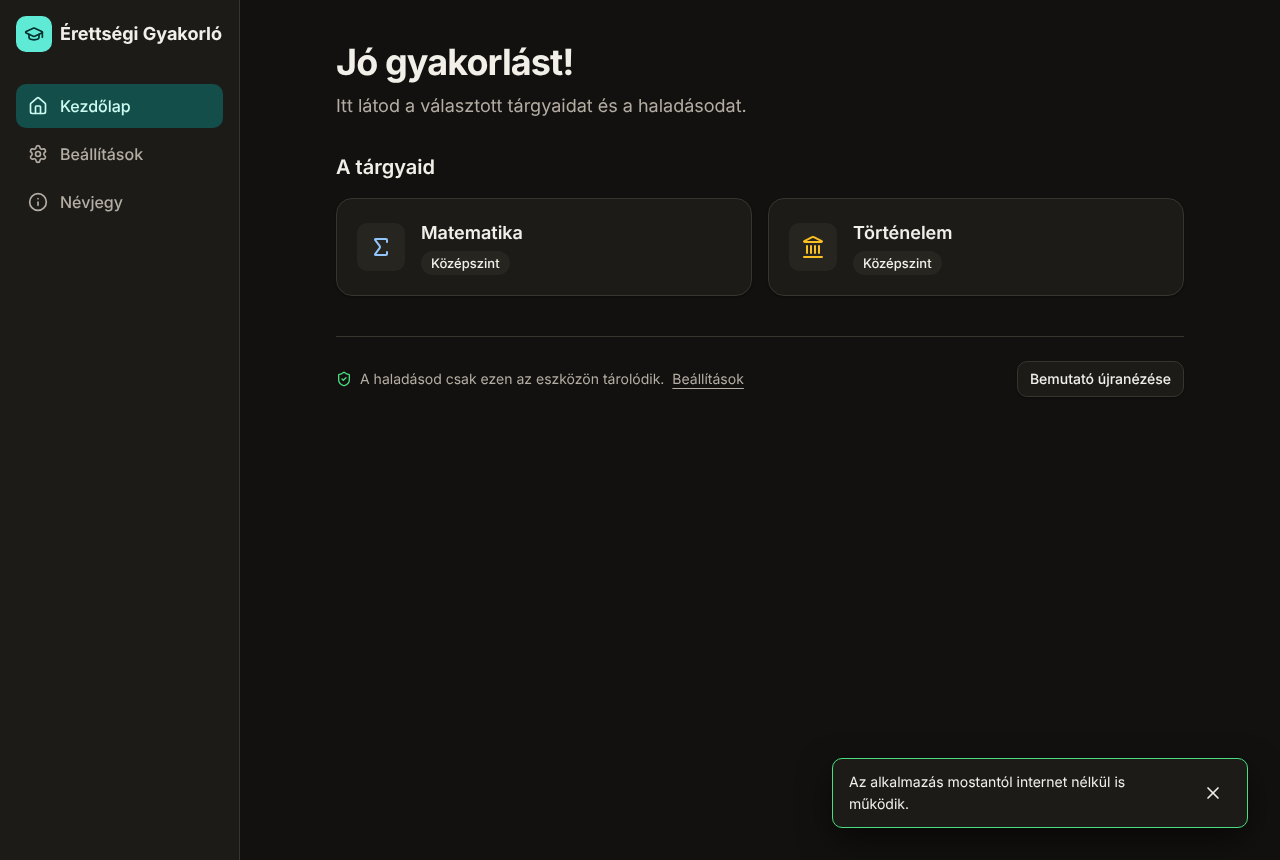
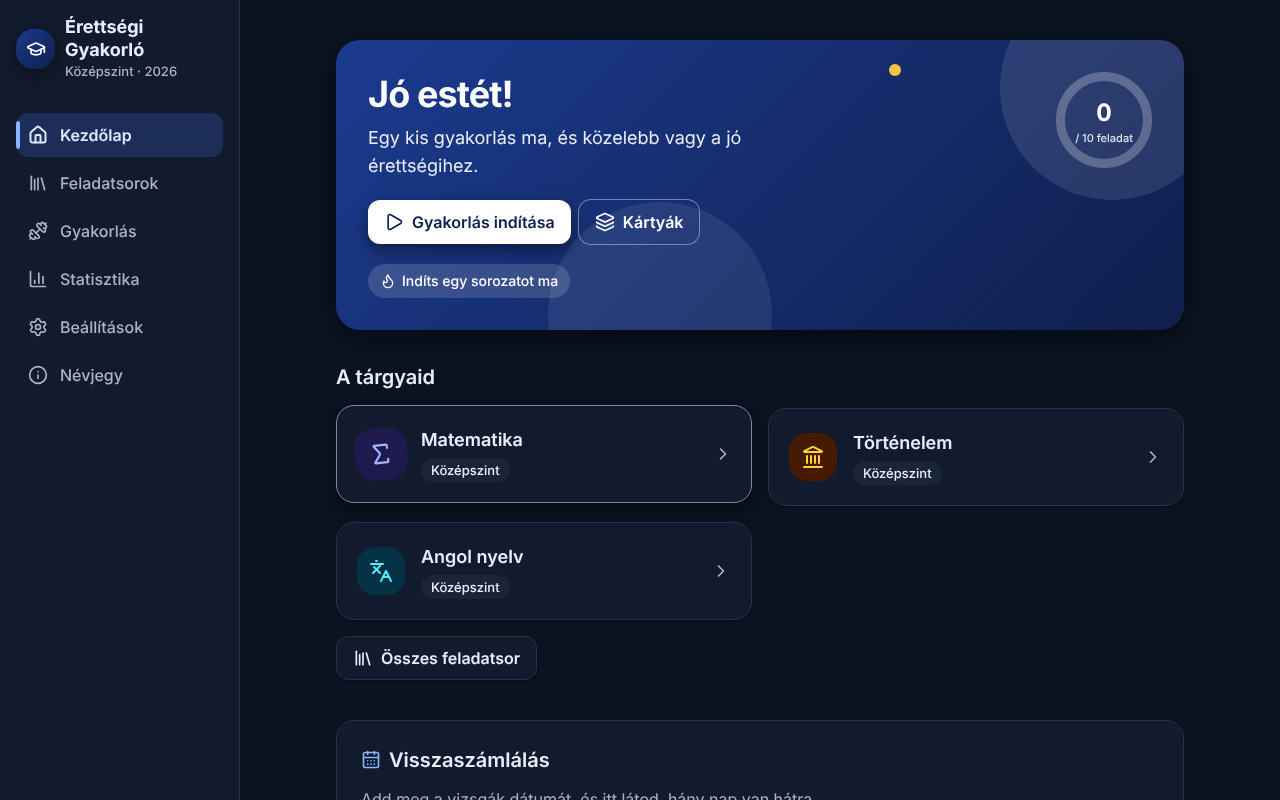
Polish: flame streak days, colourful subject picker, new screenshots, motion docs
- Lighthouse: desktop 99-100 on every screen; mobile performance 82-87 with
  total blocking time down from up to 350 ms to about 30 ms
- a11y spec: the paper view keeps its printed answer-box sizes (WCAG 2.5.8
  essential exception); the form view is scanned with every rule
- settle() waits again after a short pause for late toasts and transitions

Claude-Session: https://claude.ai/code/session_01S7mg4gSGGFP73pvqL144uw

diff --git a/src/features/onboarding/SubjectPicker.tsx b/src/features/onboarding/SubjectPicker.tsx
@@ -1,6 +1,6 @@
 import { Check } from 'lucide-react';
-import { DEFAULT_SUBJECTS, subjectAccent } from '@/content/catalog';
-import { SubjectIcon } from '@/content/SubjectIcon';
+import { DEFAULT_SUBJECTS } from '@/content/catalog';
+import { SubjectBadge } from '@/content/SubjectIcon';
 import { cn } from '@/lib/cn';
 
 interface SubjectPickerProps {
@@ -25,7 +25,7 @@ export function SubjectPicker({ selected, onChange, legend, hideLegend }: Subjec
             <label
               key={subject.id}
               className={cn(
-                'flex min-h-16 cursor-pointer items-center gap-4 rounded-md border-2 bg-surface px-4 py-3 transition-colors has-[:focus-visible]:outline-3 has-[:focus-visible]:outline-offset-2 has-[:focus-visible]:outline-focus',
+                'group flex min-h-16 cursor-pointer items-center gap-4 rounded-lg border-2 bg-surface px-4 py-3 transition-colors active:scale-[0.99] has-[:focus-visible]:outline-3 has-[:focus-visible]:outline-offset-2 has-[:focus-visible]:outline-focus',
                 checked
                   ? 'border-primary bg-primary-soft/40'
                   : 'border-border hover:border-border-strong',
@@ -37,19 +37,17 @@ export function SubjectPicker({ selected, onChange, legend, hideLegend }: Subjec
                 checked={checked}
                 onChange={() => toggle(subject.id)}
               />
-              <SubjectIcon
-                subject={subject}
-                className={cn('size-7 shrink-0', subjectAccent(subject.id))}
-              />
+              <SubjectBadge subject={subject} size="sm" />
               <span className="flex-1 font-medium">{subject.name}</span>
               <span
                 aria-hidden="true"
                 className={cn(
                   'flex size-6 items-center justify-center rounded-sm border-2',
+                  'transition-colors duration-(--motion-fast)',
                   checked ? 'border-primary bg-primary text-primary-fg' : 'border-border-strong',
                 )}
               >
-                {checked && <Check className="size-4" />}
+                {checked && <Check className="size-4 animate-pop-in" />}
               </span>
             </label>
           );

diff --git a/src/features/home/Dashboard.tsx b/src/features/home/Dashboard.tsx
@@ -118,7 +118,7 @@ export function Dashboard({ data }: { data: StatsData }) {
   const week = recentDays(data.days);
 
   return (
-    <div className="mt-10 grid gap-6 lg:grid-cols-2">
+    <div className="mt-10 grid stagger gap-6 lg:grid-cols-2">
       <CountdownCard />
       <Card aria-labelledby="dash-next">
         <CardTitle id="dash-next" className="flex items-center gap-2">
@@ -164,14 +164,20 @@ export function Dashboard({ data }: { data: StatsData }) {
               <li key={day} className="grid justify-items-center gap-1 text-xs text-muted">
                 <span
                   className={cn(
-                    'size-7 rounded-full border-2',
-                    active ? 'border-primary bg-primary' : 'border-border-strong',
+                    'flex size-8 items-center justify-center rounded-full border-2',
+                    active
+                      ? 'animate-pop-in border-transparent bg-linear-135 from-amber-400 to-orange-600 text-white shadow-1'
+                      : 'border-border-strong',
+                    day === week[week.length - 1]?.day &&
+                      'ring-2 ring-primary ring-offset-2 ring-offset-surface',
                   )}
                   role="img"
                   aria-label={t(active ? 'dashboard.dayActive' : 'dashboard.dayInactive', {
                     day: label,
                   })}
-                />
+                >
+                  {active && <Flame aria-hidden="true" className="size-4" />}
+                </span>
                 <span aria-hidden="true">{formatDate(date, { weekday: 'narrow' })}</span>
               </li>
             );

diff --git a/e2e/fixtures.ts b/e2e/fixtures.ts
@@ -20,14 +20,23 @@ export { expect };
 
 /** Waits until entrance animations (fades, slides) have finished; endless ones are ignored. */
 export async function settle(page: Page) {
-  await page.evaluate(() =>
-    Promise.all(
-      document
-        .getAnimations()
-        .filter((a) => a.effect?.getComputedTiming().iterations !== Infinity)
-        .map((a) => a.finished.catch(() => undefined)),
-    ),
-  );
+  // A toast or a late page transition can start just after the first wait, so
+  // check again after a short pause until nothing finite is running.
+  for (let round = 0; round < 5; round++) {
+    const running = await page.evaluate(async () => {
+      const finite = () =>
+        document
+          .getAnimations()
+          .filter(
+            (a) =>
+              a.playState === 'running' && a.effect?.getComputedTiming().iterations !== Infinity,
+          );
+      await Promise.all(finite().map((a) => a.finished.catch(() => undefined)));
+      await new Promise((resolve) => setTimeout(resolve, 150));
+      return finite().length;
+    });
+    if (running === 0) return;
+  }
 }
 
 /** The home page greets by time of day. */

diff --git a/e2e/a11y.spec.ts b/e2e/a11y.spec.ts
@@ -40,9 +40,12 @@ const PAGES = [
 const scan = async (page: Page, label: string) => {
   // Colours are measured once fades and slides have ended.
   await settle(page);
-  const results = await new AxeBuilder({ page })
-    .withTags(['wcag2a', 'wcag2aa', 'wcag21aa', 'wcag22aa'])
-    .analyze();
+  let builder = new AxeBuilder({ page }).withTags(['wcag2a', 'wcag2aa', 'wcag21aa', 'wcag22aa']);
+  // On the paper view the answer boxes sit where the official paper prints them, so their size
+  // and spacing are part of the replica (WCAG 2.5.8 "essential" exception). The form view offers
+  // the same fields at full size, and it is scanned with every rule.
+  if (label.includes('nezet=feladatlap')) builder = builder.disableRules(['target-size']);
+  const results = await builder.analyze();
   expect(results.violations, label).toEqual([]);
 };
 

diff --git a/docs/performance.md b/docs/performance.md
@@ -4,15 +4,15 @@
 
 `npm run lighthouse` runs Lighthouse CI on the production build (five main screens, median of 3 runs). CI fails when any category scores below 0.9 with the desktop profile. Accessibility is also checked by axe in Playwright (`e2e/a11y.spec.ts`, WCAG 2.2 AA, light and dark theme) on every screen, including results, sharing, statistics with data, every help tab and timed exam mode.
 
-## Latest measurements (2026-10-18, demo pack)
+## Latest measurements (2026-10-21, demo pack, after the motion redesign)
 
 | Screen                        | Desktop performance | Mobile performance | Mobile LCP | Mobile TBT |
 | ----------------------------- | ------------------- | ------------------ | ---------- | ---------- |
-| Kezdőlap                      | 99                  | 76–84              | 3.2 s      | 350 ms     |
-| Feladatsorok                  | 97–100              | 87–88              | 3.4 s      | 70 ms      |
-| Feladatsor (matematika minta) | 98–99               | 78–86              | 3.6 s      | 160 ms     |
-| Statisztika                   | 96–100              | 74–89              | 3.1 s      | 90 ms      |
-| Névjegy                       | 98–100              | 89–92              | 3.0 s      | 60 ms      |
+| Kezdőlap                      | 100                 | 85                 | 3.3 s      | 32 ms      |
+| Feladatsorok                  | 99                  | 87                 | 3.2 s      | 24 ms      |
+| Feladatsor (matematika minta) | 99                  | 82                 | 4.0 s      | 25 ms      |
+| Statisztika                   | 99–100              | 87                 | 3.2 s      | 25 ms      |
+| Névjegy                       | 99–100              | 87                 | 3.3 s      | 20 ms      |
 
 Accessibility, best practices and SEO score 100 on every screen in both profiles. Mobile means Lighthouse's default: a mid-range phone (4× CPU slowdown) on slow 4G. Run it with `LHCI_MOBILE=1 npm run lighthouse`; mobile performance is reported as a warning, not a failure, until it reaches 0.9.
 
@@ -26,3 +26,14 @@ Accessibility, best practices and SEO score 100 on every screen in both profiles
 
 - Prerender the static parts of each route into HTML, so text appears before JavaScript runs (largest gain for FCP and LCP).
 - Split the main bundle further: React Router and Radix currently load on every page.
+
+## Motion
+
+Animations make the app feel responsive without costing speed on cheap phones:
+
+- Only `transform` and `opacity` are animated (compositor-only), plus a ring's stroke on the home and results pages. Nothing animates layout.
+- Decorative shapes do not move behind translucent or blurred elements: that combination repaints on every frame on devices without a GPU.
+- Page changes fade in with the Web Animations API on the existing element (no remount, see `src/app/motion.ts`). There is no global smooth scrolling: it made route changes scroll slowly and late.
+- One delegated `pointerdown` listener draws the press ripple on elements marked `data-ripple`.
+- Every duration comes from the motion tokens in `src/design/tokens.css`. They drop to 0 when the system asks for reduced motion or the student turns on "Animációk csökkentése" in Settings; confetti and count-ups are skipped then.
+- Playwright runs with animations on; `settle()` in `e2e/fixtures.ts` waits for them to end before axe measures colours. `e2e/motion.spec.ts` checks the ripple, the reduced-motion switch and the daily goal.
